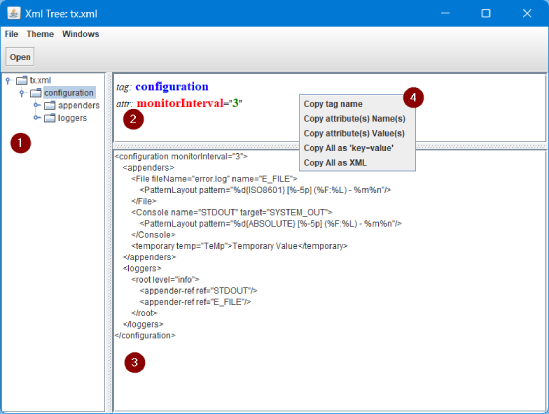
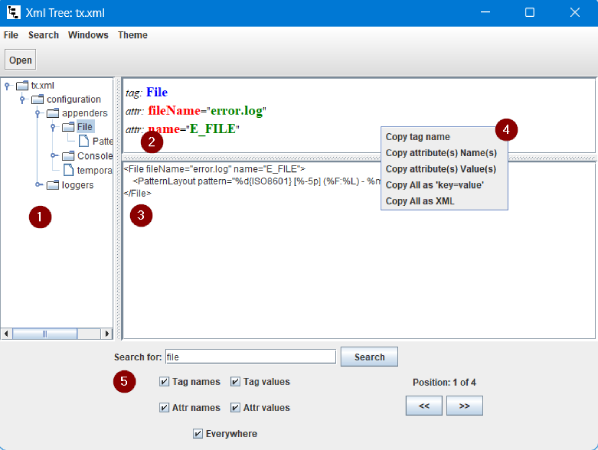
Corrected README.md

Changed region(s): [[0.0, 0.0, 1.0, 1.0], [0.6503, 0.8406, 0.8361, 0.9275], [0.9909, 0.0, 1.0, 0.029]]

diff --git a/README.md b/README.md
@@ -9,6 +9,7 @@ Make lightweight multiplatform GUI application with native Java only for conveni
 ### 📃 Features
 - shows XML file structure as tree
 - auto file formatting (AKA Fine Print)
+- flexible configured fuzzy search in XML 
 - useful Tags and Attributes showing
 - possibility of multiple Tag's and Attribute's Names and Values copying
 - multiple independent windows interface
@@ -48,16 +49,21 @@ If file in parameter have wrong format, or it doesn't exist the Open File Dialog
    - **Copy attribute(s) Value(s)** - copying **All** Attribute's values of the current Tag (green) into system clipboard
    - **Copy All as 'key=value'** - copying **All** Tag and Attribute's names and values of the current Tag (green) as **key=value** into system clipboard
    - **Copy All as XML** - copying formatted XML view's content into system clipboard
+5. Search panel
 
 ### 📄 Application Menu<a id='AppMenu'/>
 1. **File**
     - **Open** - opens new XML file in new window
     - **Exit** - clos All opened windows and exit application
-2. **Theme** - select Theme (Look and Fill) for All opened windows
+2. **Search**
+   - **Find in...** - show or hide Search panel, could be hide by **Esc** key presses too
+    - **Find next** - show Next search result
+    - **Find prev** - show Previous search result
 3. **Windows**
     - **Close this** - close active window
     - **Close all** - clos All opened windows and exit application (the same of `File -> Exit`)
     - **Xml Tree: <file_name>** - switch (make active) to other opened window with **file_name** in 
+4. **Theme** - select Theme (Look and Fill) for all opened windows
 
 ### 🐞 Known issues
 - If you are using Windows with display's Scale greater than 100% it will be useful to launch the application with JRE8 because it makes interface more pretty with smaller controls than JREs greater than 8.
